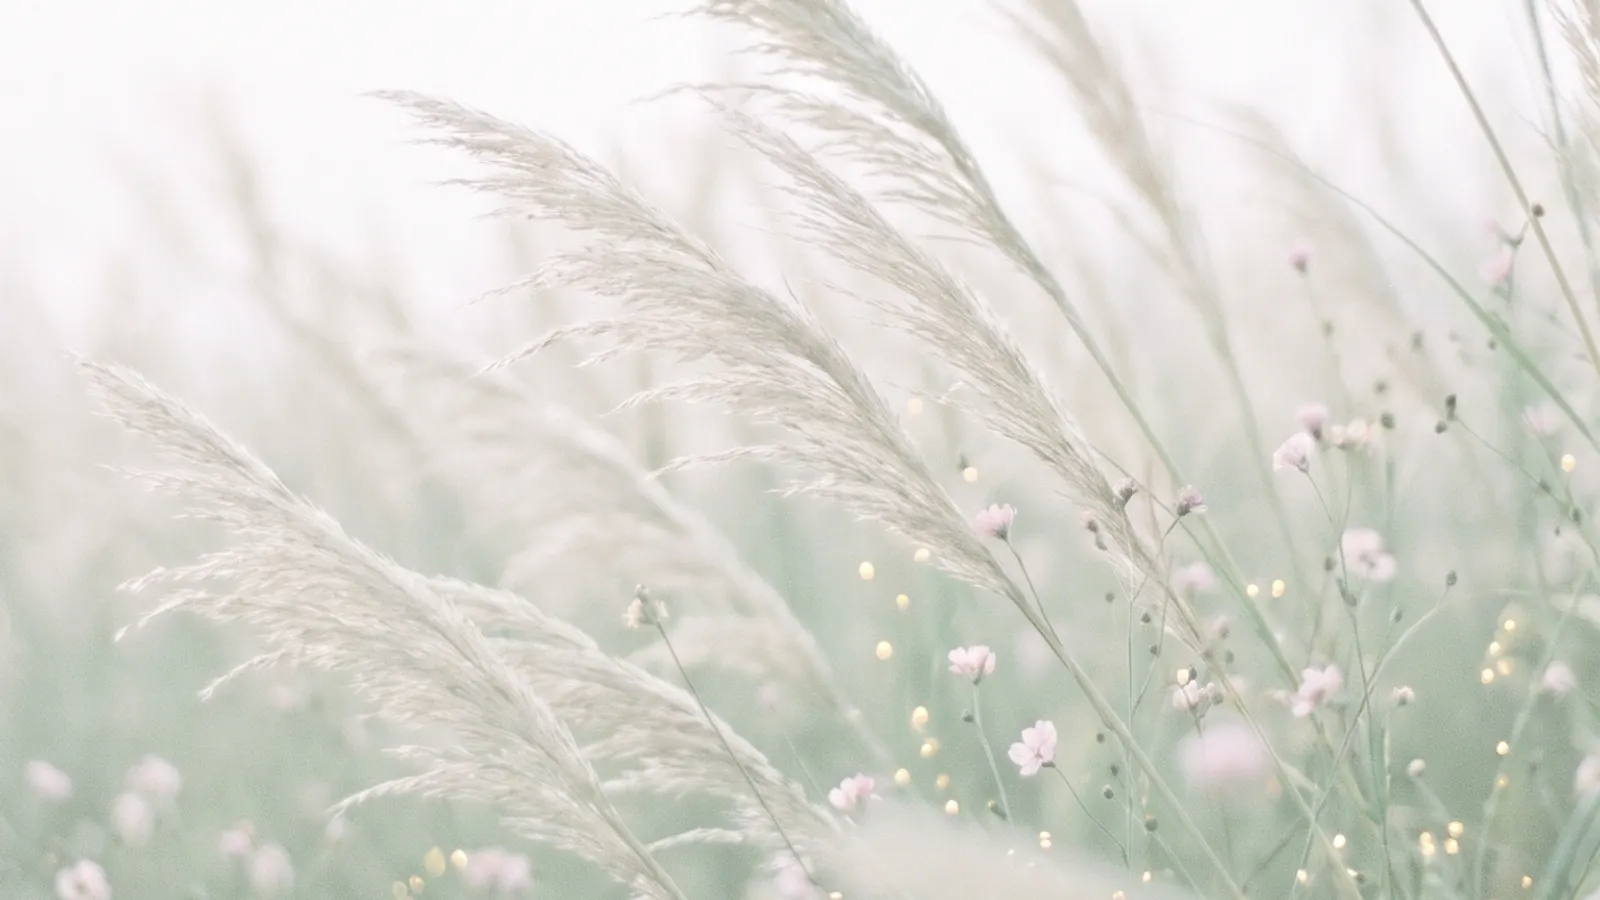
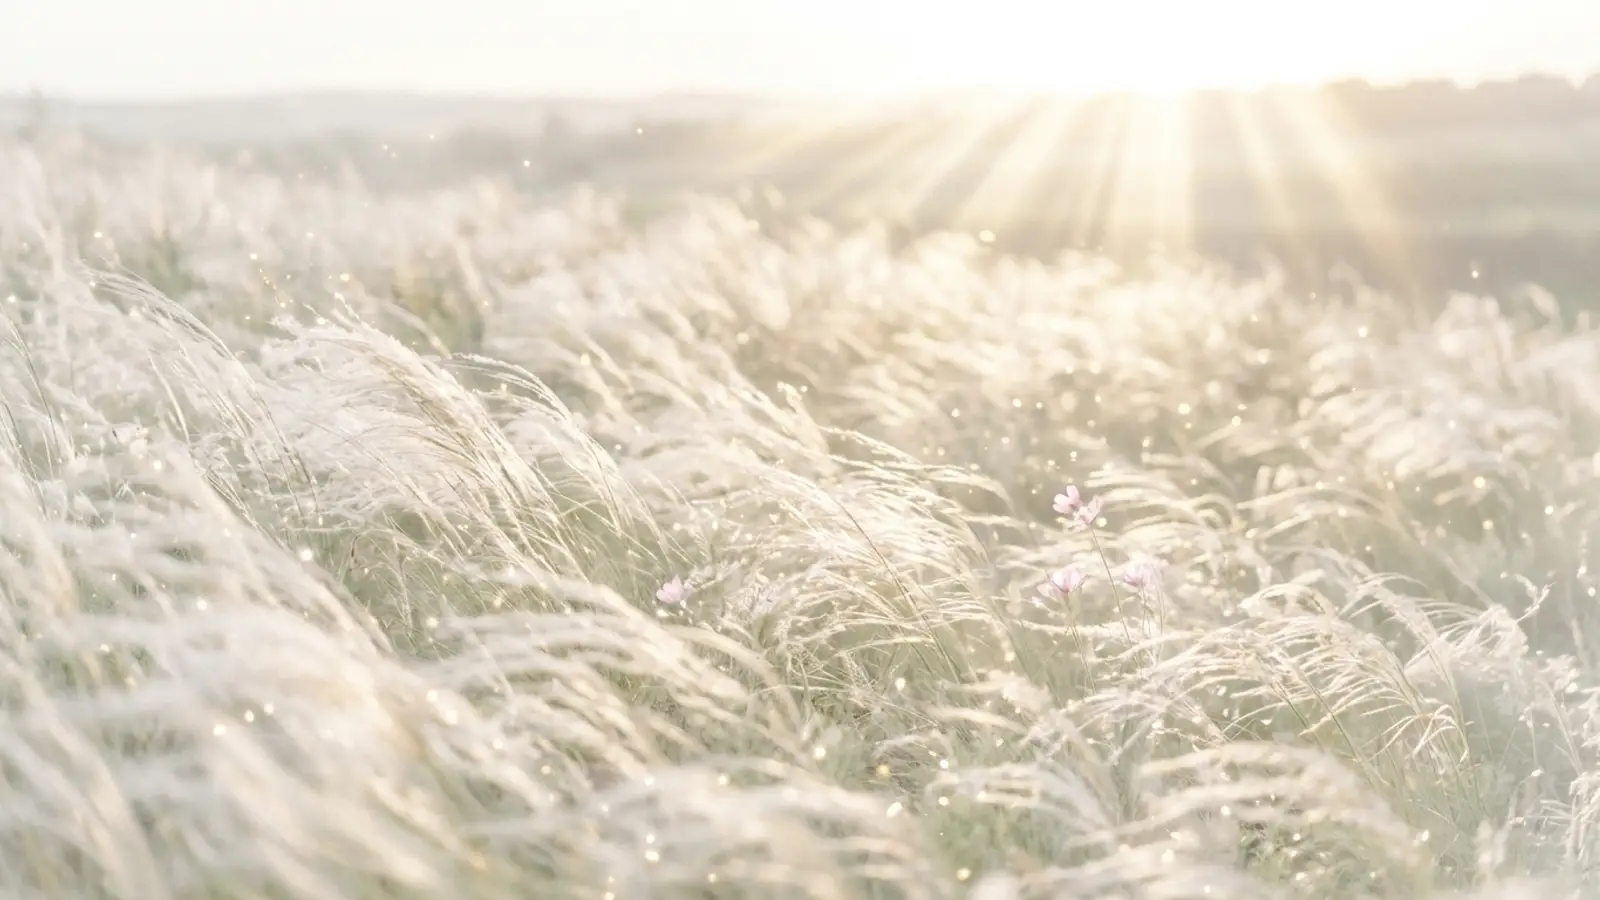
Sweet Home: màn chào sát ảnh mẫu hơn, khung hoa văn chấm tự vẽ, bướm chấm, dấu cắt, nền cánh đồng mới
- scripts/ornaments.mjs: tự vẽ hoa văn góc, dải giữa cạnh và bướm bằng Bézier, dựng chấm dither Bayer bằng sharp
- Nền cánh đồng tạo mới bằng Gemini từ mô tả chữ, phủ sữa đậm hơn
- Chữ "chào mừng về nhà" đổi sang Mea Culpa, "bạn" trắng ngà có quầng rêu, khối chữ hạ xuống khoảng 55%
- 16 hạt lấp lánh, khung chỉ ở màn chào

diff --git a/app/src/onboarding.css b/app/src/onboarding.css
@@ -1,15 +1,16 @@
 /* Màn chào và nền cánh đồng cho phần hỏi đầu. Chữ tự host qua Vite, có bộ tiếng Việt; trình duyệt chỉ tải tệp chữ khi màn này vẽ đến. */
 @import '@fontsource/pinyon-script/400.css';
+@import '@fontsource/mea-culpa/400.css';
 @import '@fontsource/playfair-display/400.css';
 
 /* Nền cánh đồng cỏ lau: một lớp ảnh đứng yên, phủ sữa mỏng cho chữ dễ đọc. Không filter, không lớp lớn chuyển động. */
 .meadow {
   position: fixed; inset: 0; z-index: -1; pointer-events: none; overflow: hidden; background-color: #F3F4EE;
-  background-image: linear-gradient(180deg, rgba(251,250,246,.28) 0%, rgba(251,250,246,.36) 45%, rgba(248,248,242,.5) 100%), url('/art/bg-meadow.webp');
+  background-image: linear-gradient(180deg, rgba(250,250,245,.5) 0%, rgba(250,250,245,.46) 45%, rgba(248,248,242,.6) 100%), url('/art/bg-meadow.webp');
   background-size: cover; background-position: center;
 }
 @media (min-aspect-ratio: 4/5) {
-  .meadow { background-image: linear-gradient(180deg, rgba(251,250,246,.3), rgba(248,248,242,.5)), url('/art/bg-meadow-wide.webp'); background-position: center bottom; }
+  .meadow { background-image: linear-gradient(180deg, rgba(250,250,245,.5), rgba(248,248,242,.6)), url('/art/bg-meadow-wide.webp'); background-position: center bottom; }
 }
 /* Vài hạt lấp lánh, chỉ nhấp nháy bằng độ mờ. */
 .meadow i { position: absolute; width: 6px; height: 6px; margin: -3px; border-radius: 50%; opacity: 0;
@@ -19,27 +20,47 @@
 .meadow i:nth-child(4n+1) { width: 8px; height: 8px; margin: -4px; animation-duration: 5.4s; }
 @keyframes twinkle { 0%, 100% { opacity: 0; } 50% { opacity: .9; } }
 
-/* Màn chào: "sweet home" nhỏ ở đỉnh, giữa là "chào mừng về nhà" viết tay và chữ "bạn" lớn. */
+/* Màn chào: "sweet home" nhỏ ở đỉnh, khung hoa văn chấm, giữa là "chào mừng về nhà" viết tay và chữ "bạn" lớn. */
 .hello { align-items: stretch; color: var(--ink); background: transparent; }
-.hello-top { display: flex; flex-direction: column; align-items: center; gap: 4px; padding-top: 14px; opacity: 0; animation: slowFade 1.6s .2s forwards; }
-.hello-logo { width: 30px; height: 30px; }
-.hello-brand { font-family: 'Pinyon Script', cursive; font-size: 21px; line-height: 1.2; color: #6A7060; }
+.hello-top { position: relative; display: flex; justify-content: center; padding-top: 22px; opacity: 0; animation: slowFade 1.6s .2s forwards; }
+.hello-brand { font-family: 'Pinyon Script', cursive; font-size: 17px; line-height: 1.2; letter-spacing: .04em; color: #7C8078; }
 .hello .center { position: relative; }
 
-.welcome { position: relative; display: flex; align-items: flex-end; justify-content: center; width: 100%; margin-top: -6vh; }
-.wl-glow { position: absolute; left: 50%; top: 50%; width: 120%; height: 150%; transform: translate3d(-50%, -50%, 0); border-radius: 50%; pointer-events: none;
-  background: radial-gradient(closest-side, rgba(255,255,253,.85), rgba(255,255,250,.5) 45%, rgba(255,255,250,.16) 75%, rgba(255,255,250,0));
+/* Khung chấm: ảnh tĩnh, hiện dần bằng độ mờ. */
+.hello-frame { position: absolute; inset: calc(var(--safe-top) + 10px) 10px calc(var(--safe-bottom) + 10px); pointer-events: none; opacity: 0; animation: slowFade 2s .3s forwards; }
+.orn-c { position: absolute; width: min(29vw, 124px); height: auto; opacity: .62; }
+.orn-c.tl { left: 6px; top: 6px; }
+.orn-c.tr { right: 6px; top: 6px; transform: scaleX(-1); }
+.orn-c.bl { left: 6px; bottom: 6px; transform: scaleY(-1); }
+.orn-c.br { right: 6px; bottom: 6px; transform: scale(-1, -1); }
+.orn-s { position: absolute; top: 54%; width: min(8vw, 32px); height: auto; margin-top: -14vw; opacity: .45; }
+.orn-s.l { left: 2px; }
+.orn-s.r { right: 2px; transform: scaleX(-1); }
+.crop { position: absolute; width: 9px; height: 9px; border: 0 solid rgba(112,116,110,.55); }
+.crop.tl { left: 0; top: 0; border-width: 1px 0 0 1px; }
+.crop.tr { right: 0; top: 0; border-width: 1px 1px 0 0; }
+.crop.bl { left: 0; bottom: 0; border-width: 0 0 1px 1px; }
+.crop.br { right: 0; bottom: 0; border-width: 0 1px 1px 0; }
+
+/* Cả khối chữ nằm khoảng 55 đến 60 phần trăm chiều cao. */
+.welcome { position: relative; display: flex; align-items: flex-end; justify-content: center; width: 100%; margin-top: 10vh; }
+.wl-glow { position: absolute; right: 2%; top: 50%; width: 58%; height: 120%; transform: translate3d(0, -46%, 0); border-radius: 50%; pointer-events: none;
+  background: radial-gradient(closest-side, rgba(140,158,116,.62), rgba(154,170,130,.32) 55%, rgba(170,182,150,0));
   opacity: 0; will-change: opacity; animation: wl-glow-in 1.6s 1.6s ease forwards, wl-glow 6s 3.2s ease-in-out infinite; }
 @keyframes wl-glow-in { to { opacity: .8; } }
 @keyframes wl-glow { 0%, 100% { opacity: .8; } 50% { opacity: 1; } }
+/* Bướm chấm lớn, mờ, nằm sau chữ. */
+.wl-bfly { position: absolute; left: 50%; top: -44%; width: min(48vw, 210px); height: auto; margin-left: -24%; transform: rotate(-12deg); pointer-events: none;
+  opacity: 0; animation: wl-bfly-in 2s 1.2s ease forwards; }
+@keyframes wl-bfly-in { to { opacity: .42; } }
 
-.wl-left { position: relative; z-index: 1; margin-right: -.3em; padding-bottom: .62em;
-  font-family: 'Pinyon Script', cursive; font-size: clamp(30px, 9.4vw, 50px); line-height: 1.05; color: #58604C;
+.wl-left { position: relative; z-index: 1; margin-right: -.2em; padding-bottom: .9em;
+  font-family: 'Mea Culpa', cursive; font-size: clamp(34px, 11vw, 54px); line-height: .95; color: #4C584E;
   animation: wl-from-left 1.7s .3s cubic-bezier(.16,.84,.3,1) both; will-change: transform, opacity; }
-.wl-left > span { display: flex; flex-direction: column; transform: rotate(-6deg); transform-origin: 100% 100%; white-space: nowrap; }
-.wl-left > span > span:last-child { padding-left: 1.2em; }
-.wl-right { position: relative; font-family: 'Playfair Display', 'Times New Roman', serif; font-weight: 400; font-size: clamp(100px, 30vw, 160px); line-height: .9; letter-spacing: -.02em; color: #6F7B59;
-  text-shadow: 0 0 14px rgba(255,255,255,.95), 0 0 34px rgba(255,255,255,.7);
+.wl-left > span { display: flex; flex-direction: column; transform: rotate(-3deg); transform-origin: 100% 100%; white-space: nowrap; }
+.wl-left > span > span:last-child { padding-left: 1.7em; }
+.wl-right { position: relative; z-index: 1; font-family: 'Playfair Display', 'Times New Roman', serif; font-weight: 400; font-size: clamp(96px, 27vw, 150px); line-height: .9; letter-spacing: -.03em; color: #FBF9EF;
+  text-shadow: 0 0 1px rgba(70,84,58,.55), 0 1px 3px rgba(70,84,58,.35), 0 0 16px rgba(108,126,86,.55), 0 0 36px rgba(118,136,96,.35);
   animation: wl-from-right 1.7s .55s cubic-bezier(.16,.84,.3,1) both; will-change: transform, opacity; }
 @keyframes wl-from-left { from { opacity: 0; transform: translate3d(-58vw, 0, 0); } 35% { opacity: .6; } to { opacity: 1; transform: translate3d(0, 0, 0); } }
 @keyframes wl-from-right { from { opacity: 0; transform: translate3d(58vw, 0, 0); } 35% { opacity: .6; } to { opacity: 1; transform: translate3d(0, 0, 0); } }
@@ -52,6 +73,7 @@
 @media (prefers-reduced-motion: reduce) {
   .wl-left, .wl-right { animation-name: slowFade; }
   .wl-glow { animation: wl-glow-in 1.6s 1s ease forwards; }
+  .wl-bfly { animation-delay: .6s; }
   .meadow i { animation: none; opacity: .6; }
   .hello-hint { animation: slowFade 1.2s 2s both; }
 }

diff --git a/app/src/Onboarding.tsx b/app/src/Onboarding.tsx
@@ -105,8 +105,8 @@ export function Onboarding({ onDone }: { onDone: () => void }) {
       <>
         <Meadow />
         <button className="screen hello" onClick={() => { sfx('hello'); void startMusic(); setStep('role'); }} aria-label="Chào mừng về nhà, chạm để bắt đầu">
+          <HelloFrame />
           <div className="hello-top" aria-hidden>
-            <img className="hello-logo" src="/logo.svg" alt="" />
             <div className="hello-brand">sweet home</div>
           </div>
           <div className="center"><Welcome /></div>
@@ -349,9 +349,21 @@ function Hold({ onDone }: { onDone: () => void }) {
 }
 
 /** Nền cánh đồng cỏ lau cho cả phần hỏi đầu: ảnh đứng yên, vài hạt lấp lánh nhấp nháy. */
-const SPARKS: Array<[number, number, number]> = [[12, 22, 0], [78, 14, 1.4], [64, 31, 2.6], [22, 47, 0.8], [88, 52, 3.2], [40, 63, 1.9], [9, 72, 2.9], [70, 70, 0.4], [52, 84, 3.6], [30, 90, 1.1]];
+const SPARKS: Array<[number, number, number]> = [[12, 22, 0], [78, 14, 1.4], [64, 31, 2.6], [22, 47, 0.8], [88, 52, 3.2], [40, 63, 1.9], [9, 72, 2.9], [70, 70, 0.4], [52, 84, 3.6], [30, 90, 1.1],
+  [46, 18, 2.2], [33, 36, 3.9], [84, 38, 0.6], [58, 58, 2.9], [16, 82, 1.7], [90, 86, 4.3]];
 function Meadow() {
   return <div className="meadow" aria-hidden>{SPARKS.map(([x, y, d], i) => <i key={i} style={{ left: `${x}%`, top: `${y}%`, animationDelay: `${d}s` }} />)}</div>;
+}
+
+/** Khung chấm chỉ ở màn chào: bốn góc lật gương từ một ảnh, hai dải mờ giữa cạnh, bốn dấu cắt. Ảnh tĩnh, chỉ hiện dần. */
+function HelloFrame() {
+  return (
+    <div className="hello-frame" aria-hidden>
+      {['tl', 'tr', 'bl', 'br'].map((c) => <img key={c} className={`orn-c ${c}`} src="/art/orn-corner.png" alt="" />)}
+      {['l', 'r'].map((c) => <img key={c} className={`orn-s ${c}`} src="/art/orn-side.png" alt="" />)}
+      {['tl', 'tr', 'bl', 'br'].map((c) => <i key={c} className={`crop ${c}`} />)}
+    </div>
+  );
 }
 
 /** "chào mừng về nhà" trượt vào từ bên trái, chữ "bạn" từ bên phải, rồi đứng yên với quầng sáng thở nhẹ. */
@@ -359,6 +371,7 @@ function Welcome() {
   return (
     <div className="welcome" role="img" aria-label="Chào mừng về nhà, bạn">
       <i className="wl-glow" />
+      <img className="wl-bfly" src="/art/orn-butterfly.png" alt="" />
       <div className="wl-left"><span><span>chào mừng</span><span>về nhà</span></span></div>
       <div className="wl-right">bạn</div>
     </div>
